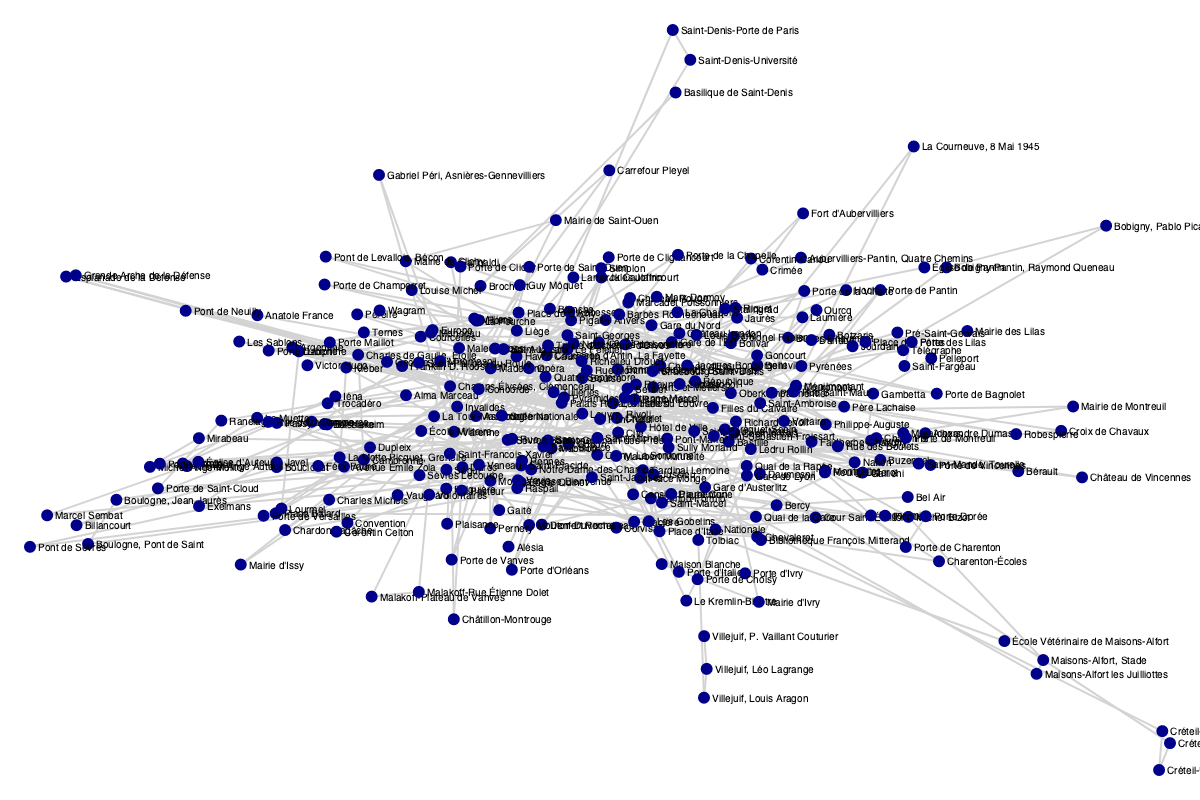
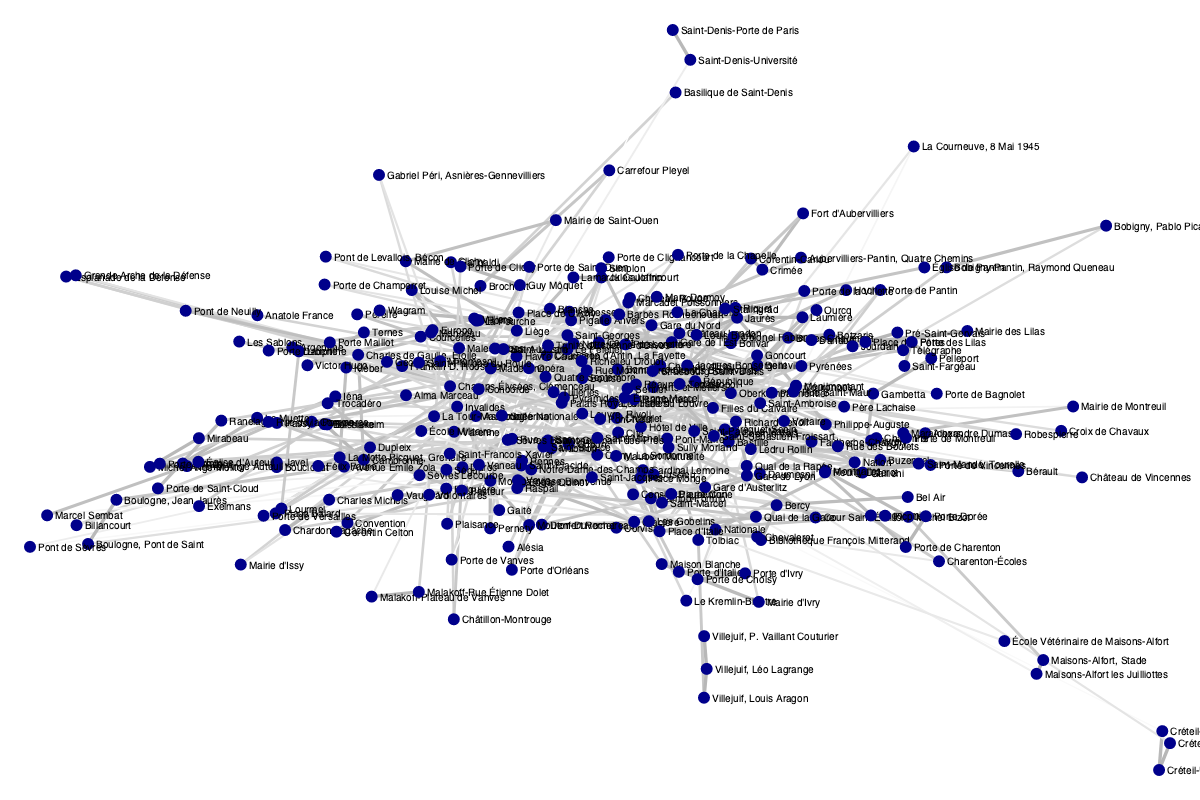
Enhance graph visualization with dynamic edge thickness and color based on weights; implement Haversine distance calculation for accurate edge weights

diff --git a/Program.cs b/Program.cs
@@ -5,6 +5,27 @@ using System.Linq;
 using LivInParis.Models;
 using LivInParis.Services;
 
+// Helper method to calculate Haversine distance between two geographic points
+static double CalculateDistance(double lat1, double lon1, double lat2, double lon2)
+{
+    const double EarthRadiusKm = 6371.0;
+
+    var dLat = ToRadians(lat2 - lat1);
+    var dLon = ToRadians(lon2 - lon1); // Fixed the calculation (was lon2 - lat1)
+
+    var a = Math.Sin(dLat / 2) * Math.Sin(dLat / 2) +
+            Math.Cos(ToRadians(lat1)) * Math.Cos(ToRadians(lat2)) *
+            Math.Sin(dLon / 2) * Math.Sin(dLon / 2);
+
+    var c = 2 * Math.Atan2(Math.Sqrt(a), Math.Sqrt(1 - a));
+    return EarthRadiusKm * c; // Distance in kilometers
+}
+
+static double ToRadians(double degrees)
+{
+    return degrees * Math.PI / 180.0;
+}
+
 Console.WriteLine("Bienvenue à Liv in Paris!");
 
 // Création du service métro et chargement des données
@@ -20,8 +41,48 @@ var lines = metroService.GetAllLines();
 Console.WriteLine($"\nNombre de stations de métro: {stations.Count}");
 Console.WriteLine($"Nombre de lignes de métro: {lines.Count}");
 
-// Construire le graphe du métro avec les positions géographiques
+// Construire le graphe du métro avec les positions géographiques et distances graduées
 var (metroGraph, stationGeoPositions) = metroService.BuildMetroGraphWithPositions();
+
+// Maintenant, mettons à jour les poids des arêtes avec les distances réelles
+Console.WriteLine("\nMise à jour du graphe avec distances géographiques graduées...");
+
+// Create a new graph with appropriate weights
+var weightedMetroGraph = new Graphe<string>();
+
+// First, add all nodes
+foreach (var node in metroGraph.Nodes.Keys)
+{
+    weightedMetroGraph.AddNode(node);
+}
+
+// Then, add edges with calculated weights
+foreach (var edge in metroGraph.Edges)
+{
+    var sourceStationId = edge.Source.Id;
+    var targetStationId = edge.Target.Id;
+
+    if (stationGeoPositions.TryGetValue(sourceStationId, out var sourcePos) &&
+        stationGeoPositions.TryGetValue(targetStationId, out var targetPos))
+    {
+        // Calculer la distance réelle entre les stations en kilomètres
+        double distance = CalculateDistance(
+            sourcePos.Lat, sourcePos.Lon,
+            targetPos.Lat, targetPos.Lon
+        );
+
+        // Add a new edge with the calculated weight
+        weightedMetroGraph.AddEdge(sourceStationId, targetStationId, distance);
+    }
+    else
+    {
+        // If positions aren't available, keep original weight
+        weightedMetroGraph.AddEdge(sourceStationId, targetStationId, edge.Weight);
+    }
+}
+
+// Replace the original graph with our weighted graph
+metroGraph = weightedMetroGraph;
 
 // Debug output to check stations data
 Console.WriteLine("\nVérification des coordonnées des stations:");
@@ -137,13 +198,6 @@ double Heuristic(string a, string b)
     return Math.Sqrt(dx * dx + dy * dy) * 100; // Facteur d'échelle pour A*
 }
 
-// Test de l'algorithme A*
-stopwatch.Restart();
-var (aStarDistances, aStarPredecessors) = metroGraph.AStar(sourceStation.Name, destStation.Name, Heuristic);
-var aStarPath = metroGraph.GetPathFromPredecessors(aStarPredecessors, sourceStation.Name, destStation.Name);
-stopwatch.Stop();
-long aStarTime = stopwatch.ElapsedMilliseconds;
-double aStarDistance = aStarDistances[destStation.Name];
 
 // Test de l'algorithme de Floyd-Warshall (attention: peut être lent pour de grands graphes)
 Console.WriteLine("\nCalcul de Floyd-Warshall en cours (peut prendre du temps)...");
@@ -160,7 +214,6 @@ Console.WriteLine($"{"Algorithme",-15} {"Temps (ms)",10} {"Stations",8} {"Distan
 Console.WriteLine(new string('-', 50));
 Console.WriteLine($"{"Dijkstra",-15} {dijkstraTime,10} {dijkstraPath.Count,8} {dijkstraDistance,10:F2}");
 Console.WriteLine($"{"Bellman-Ford",-15} {bellmanFordTime,10} {bellmanFordPath.Count,8} {bellmanFordDistance,10:F2}");
-Console.WriteLine($"{"A*",-15} {aStarTime,10} {aStarPath.Count,8} {aStarDistance,10:F2}");
 Console.WriteLine($"{"Floyd-Warshall",-15} {floydWarshallTime,10} {floydWarshallPath.Count,8} {floydWarshallDistance,10:F2}");
 
 // Visualisation des différents chemins
@@ -177,12 +230,6 @@ Console.WriteLine($"\nChemin Bellman-Ford:");
 Console.WriteLine($"  Nombre de stations: {bellmanFordPath.Count}");
 Console.WriteLine($"  Distance totale: {bellmanFordDistance:F2}");
 Console.WriteLine($"  Itinéraire: {string.Join(" → ", bellmanFordPath)}");
-
-// Affiche les détails du chemin A*
-Console.WriteLine($"\nChemin A*:");
-Console.WriteLine($"  Nombre de stations: {aStarPath.Count}");
-Console.WriteLine($"  Distance totale: {aStarDistance:F2}");
-Console.WriteLine($"  Itinéraire: {string.Join(" → ", aStarPath)}");
 
 // Affiche les détails du chemin Floyd-Warshall
 Console.WriteLine($"\nChemin Floyd-Warshall:");

diff --git a/Models/GraphVisualizer.cs b/Models/GraphVisualizer.cs
@@ -118,12 +118,10 @@ public static class GraphVisualizer
             }
 
             // Dessin des connexions
-            using var edgePaint = new SKPaint
-            {
-                Color = SKColors.LightGray,
-                StrokeWidth = 2,
-                IsAntialias = true
-            };
+            // Find min and max weights for normalization
+            double minWeight = graph.Edges.Min(e => e.Weight);
+            double maxWeight = graph.Edges.Max(e => e.Weight);
+            double range = maxWeight - minWeight;
 
             foreach (var edge in graph.Edges)
             {
@@ -132,6 +130,21 @@ public static class GraphVisualizer
                 {
                     var p1 = ConvertToPoint(sPos.Lat, sPos.Lon);
                     var p2 = ConvertToPoint(tPos.Lat, tPos.Lon);
+
+                    // Normalize the weight to determine line thickness
+                    float normalizedWeight = (float)((edge.Weight - minWeight) / (range > 0 ? range : 1));
+                    float thickness = 3 * (1 - (normalizedWeight * 0.7f)) + 0.5f;
+
+                    // Create a gradient color
+                    byte colorValue = (byte)(180 + (normalizedWeight * 75));
+
+                    using var edgePaint = new SKPaint
+                    {
+                        Color = new SKColor(colorValue, colorValue, colorValue),
+                        StrokeWidth = thickness,
+                        IsAntialias = true
+                    };
+
                     canvas.DrawLine(p1, p2, edgePaint);
                 }
             }
@@ -270,18 +283,32 @@ public static class GraphVisualizer
 
     private static void DrawGenericConnections<T>(SKCanvas canvas, Dictionary<T, SKPoint> positions, List<Lien<T>> edges) where T : IEquatable<T>
     {
-        using var paint = new SKPaint
-        {
-            Color = SKColors.Gray,
-            StrokeWidth = 1,
-            IsAntialias = true,
-        };
+        // Find min and max weights for normalization
+        double minWeight = edges.Min(e => e.Weight);
+        double maxWeight = edges.Max(e => e.Weight);
+        double range = maxWeight - minWeight;
 
         foreach (var edge in edges)
         {
             if (positions.TryGetValue(edge.Source.Id, out var source) &&
                 positions.TryGetValue(edge.Target.Id, out var target))
             {
+                // Normalize the weight to a value between 0 and 1
+                float normalizedWeight = (float)((edge.Weight - minWeight) / (range > 0 ? range : 1));
+
+                // Use the normalized weight to determine line thickness (inverse - thinner for longer distances)
+                float thickness = 3 * (1 - (normalizedWeight * 0.7f)) + 0.5f;  // Between 0.5 and 3
+
+                // Create a gradient color from black (short) to light gray (long distance)
+                byte colorValue = (byte)(180 + (normalizedWeight * 75));  // Between 180 and 255
+
+                using var paint = new SKPaint
+                {
+                    Color = new SKColor(colorValue, colorValue, colorValue),
+                    StrokeWidth = thickness,
+                    IsAntialias = true,
+                };
+
                 canvas.DrawLine(source, target, paint);
             }
         }
